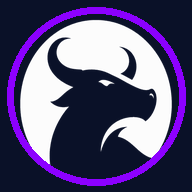
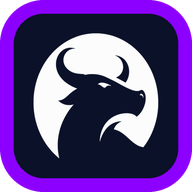
Íconos de FIG Directivos: marco al borde, como en el artefacto elegido
El generador dibujaba el marco del acento como un círculo alrededor del
toro; Francisco eligió (artefacto "Íconos de FIG Directivos") un cuadrado
redondeado con el marco pegado al borde y el toro al 66 %. La versión
maskable de Android va al 76 % para que el marco quepa en cualquier
recorte. ?v=2 en manifest y <link> para que los teléfonos los bajen de nuevo.

diff --git a/directivos/fiw/index.html b/directivos/fiw/index.html
@@ -8,8 +8,8 @@
 <title>FIG Directivos · FEN Investment Woman</title>
 <meta name="theme-color" content="#0A1128">
 <link rel="manifest" href="manifest.webmanifest">
-<link rel="icon" href="iconos/icono-192.png">
-<link rel="apple-touch-icon" href="iconos/apple-touch-icon.png">
+<link rel="icon" href="iconos/icono-192.png?v=2">
+<link rel="apple-touch-icon" href="iconos/apple-touch-icon.png?v=2">
 <meta name="mobile-web-app-capable" content="yes">
 <meta name="apple-mobile-web-app-capable" content="yes">
 <meta name="apple-mobile-web-app-title" content="FIG FIW">

diff --git a/directivos/administracion/index.html b/directivos/administracion/index.html
@@ -8,8 +8,8 @@
 <title>FIG Directivos · Administración</title>
 <meta name="theme-color" content="#2E2A4F">
 <link rel="manifest" href="manifest.webmanifest">
-<link rel="icon" href="iconos/icono-192.png">
-<link rel="apple-touch-icon" href="iconos/apple-touch-icon.png">
+<link rel="icon" href="iconos/icono-192.png?v=2">
+<link rel="apple-touch-icon" href="iconos/apple-touch-icon.png?v=2">
 <meta name="mobile-web-app-capable" content="yes">
 <meta name="apple-mobile-web-app-capable" content="yes">
 <meta name="apple-mobile-web-app-title" content="FIG ADM">

diff --git a/directivos/portafolio/index.html b/directivos/portafolio/index.html
@@ -8,8 +8,8 @@
 <title>FIG Directivos · Portafolio</title>
 <meta name="theme-color" content="#000000">
 <link rel="manifest" href="manifest.webmanifest">
-<link rel="icon" href="iconos/icono-192.png">
-<link rel="apple-touch-icon" href="iconos/apple-touch-icon.png">
+<link rel="icon" href="iconos/icono-192.png?v=2">
+<link rel="apple-touch-icon" href="iconos/apple-touch-icon.png?v=2">
 <meta name="mobile-web-app-capable" content="yes">
 <meta name="apple-mobile-web-app-capable" content="yes">
 <meta name="apple-mobile-web-app-title" content="FIG PRT">

diff --git a/directivos/valuation/index.html b/directivos/valuation/index.html
@@ -8,8 +8,8 @@
 <title>FIG Directivos · Valuation</title>
 <meta name="theme-color" content="#FF0000">
 <link rel="manifest" href="manifest.webmanifest">
-<link rel="icon" href="iconos/icono-192.png">
-<link rel="apple-touch-icon" href="iconos/apple-touch-icon.png">
+<link rel="icon" href="iconos/icono-192.png?v=2">
+<link rel="apple-touch-icon" href="iconos/apple-touch-icon.png?v=2">
 <meta name="mobile-web-app-capable" content="yes">
 <meta name="apple-mobile-web-app-capable" content="yes">
 <meta name="apple-mobile-web-app-title" content="FIG VAL">

diff --git a/directivos/trading/index.html b/directivos/trading/index.html
@@ -8,8 +8,8 @@
 <title>FIG Directivos · Trading</title>
 <meta name="theme-color" content="#B31919">
 <link rel="manifest" href="manifest.webmanifest">
-<link rel="icon" href="iconos/icono-192.png">
-<link rel="apple-touch-icon" href="iconos/apple-touch-icon.png">
+<link rel="icon" href="iconos/icono-192.png?v=2">
+<link rel="apple-touch-icon" href="iconos/apple-touch-icon.png?v=2">
 <meta name="mobile-web-app-capable" content="yes">
 <meta name="apple-mobile-web-app-capable" content="yes">
 <meta name="apple-mobile-web-app-title" content="FIG TRD">

diff --git a/generar_iconos_directivos.py b/generar_iconos_directivos.py
@@ -39,29 +39,45 @@ AREAS = {
 }
 
 
-def icono(area, fondo, acento, logo_img, lado, fraccion, nombre):
-    lienzo = Image.new("RGBA", (lado, lado), fondo)
-    d = round(lado * fraccion)
-    l = logo_img.resize((d, d), Image.LANCZOS)
-    lienzo.alpha_composite(l, ((lado - d) // 2, (lado - d) // 2))
-    ancho_anillo = max(2, round(lado * 0.035))
-    margen = ancho_anillo
-    ImageDraw.Draw(lienzo).ellipse(
-        [margen, margen, lado - margen, lado - margen], outline=acento, width=ancho_anillo
-    )
+# Mismo dibujo que el artefacto donde Francisco eligió los colores: cuadrado de
+# esquinas redondeadas (radio 22,6 %, el de iOS), marco del acento PEGADO AL
+# BORDE siguiendo esas esquinas (7 % de grosor) y el toro al 66 %. Hasta el
+# 25-sep el marco era un círculo alrededor del toro, que no era lo elegido.
+RADIO, GROSOR, TORO = 0.226, 0.071, 0.66
+X = 4   # se dibuja 4x más grande y se reduce: bordes del marco sin serrucho
+
+
+def icono(area, cfg, logo_img, lado, nombre, modo):
+    """modo "any": fuera del cuadrado redondeado queda transparente (así se ve en
+    Chrome/escritorio igual que en el artefacto). "apple": opaco, iOS recorta
+    solo con esas mismas esquinas. "mascara": Android recorta con la forma de
+    cada teléfono (círculo, gota…), así que el ícono entero se achica al 76 %
+    para que el marco completo quepa incluso en un recorte circular."""
+    G = lado * X
+    escala = 0.76 if modo == "mascara" else 1.0
+    t = round(G * escala)
+    o = (G - t) // 2
+    capa = Image.new("RGBA", (G, G), (0, 0, 0, 0) if modo == "any" else cfg["fondo"])
+    dib = ImageDraw.Draw(capa)
+    r, g = round(t * RADIO), round(t * GROSOR)
+    dib.rounded_rectangle([o, o, o + t - 1, o + t - 1], radius=r, fill=cfg["acento"])
+    dib.rounded_rectangle([o + g, o + g, o + t - 1 - g, o + t - 1 - g], radius=max(1, r - g), fill=cfg["fondo"])
+    d = round(t * TORO)
+    capa.alpha_composite(logo_img.resize((d, d), Image.LANCZOS), ((G - d) // 2, (G - d) // 2))
+    final = capa.resize((lado, lado), Image.LANCZOS)
     salida = RAIZ / "directivos" / area / "iconos"
     salida.mkdir(parents=True, exist_ok=True)
-    lienzo.convert("RGB").save(salida / nombre, optimize=True)
+    (final if modo == "any" else final.convert("RGB")).save(salida / nombre, optimize=True)
     print(f"  directivos/{area}/iconos/{nombre}  {lado}px")
 
 
 def generar(area):
     cfg = AREAS[area]
     l = logo(cfg["logo"])
-    icono(area, cfg["fondo"], cfg["acento"], l, 192, 0.80, "icono-192.png")
-    icono(area, cfg["fondo"], cfg["acento"], l, 512, 0.80, "icono-512.png")
-    icono(area, cfg["fondo"], cfg["acento"], l, 512, 0.62, "icono-mascara-512.png")
-    icono(area, cfg["fondo"], cfg["acento"], l, 180, 0.76, "apple-touch-icon.png")
+    icono(area, cfg, l, 192, "icono-192.png", "any")
+    icono(area, cfg, l, 512, "icono-512.png", "any")
+    icono(area, cfg, l, 512, "icono-mascara-512.png", "mascara")
+    icono(area, cfg, l, 180, "apple-touch-icon.png", "apple")
 
 
 if __name__ == "__main__":

diff --git a/generar_apps_directivos.py b/generar_apps_directivos.py
@@ -14,6 +14,8 @@ from pathlib import Path
 
 RAIZ = Path(__file__).resolve().parent
 DIR = RAIZ / "directivos"
+# Subirla cada vez que cambian los íconos: el ?v= obliga al teléfono a bajarlos de nuevo.
+VERSION_ICONOS = 2
 
 PLANTILLA = """<!doctype html>
 <html lang="es-CL">
@@ -25,8 +27,8 @@ PLANTILLA = """<!doctype html>
 <title>FIG Directivos · {nombre}</title>
 <meta name="theme-color" content="{fondo}">
 <link rel="manifest" href="manifest.webmanifest">
-<link rel="icon" href="iconos/icono-192.png">
-<link rel="apple-touch-icon" href="iconos/apple-touch-icon.png">
+<link rel="icon" href="iconos/icono-192.png?v={v}">
+<link rel="apple-touch-icon" href="iconos/apple-touch-icon.png?v={v}">
 <meta name="mobile-web-app-capable" content="yes">
 <meta name="apple-mobile-web-app-capable" content="yes">
 <meta name="apple-mobile-web-app-title" content="FIG {codigo}">
@@ -56,7 +58,7 @@ def main():
         area_js = json.dumps({"codigo": a["codigo"], "nombre": a["nombre"], "carpeta": carpeta}, ensure_ascii=False)
         (destino / "index.html").write_text(PLANTILLA.format(
             nombre=a["nombre"], codigo=a["codigo"], fondo=a["fondo"], acento=a["acento"],
-            area_js=area_js, areas_js=json.dumps(por_codigo, ensure_ascii=False)), encoding="utf-8")
+            v=VERSION_ICONOS, area_js=area_js, areas_js=json.dumps(por_codigo, ensure_ascii=False)), encoding="utf-8")
         manifest = {
             "id": "./", "name": f"FIG Directivos · {a['nombre']}", "short_name": f"FIG {a['codigo']}",
             "description": f"App interna de directivos de {a['nombre']}: publicar eventos, fotos y comunicados de FIG.",
@@ -64,9 +66,9 @@ def main():
             "orientation": "portrait", "background_color": "#F4F3EF", "theme_color": a["fondo"],
             "categories": ["business", "productivity"],
             "icons": [
-                {"src": "iconos/icono-192.png", "sizes": "192x192", "type": "image/png", "purpose": "any"},
-                {"src": "iconos/icono-512.png", "sizes": "512x512", "type": "image/png", "purpose": "any"},
-                {"src": "iconos/icono-mascara-512.png", "sizes": "512x512", "type": "image/png", "purpose": "maskable"},
+                {"src": f"iconos/icono-192.png?v={VERSION_ICONOS}", "sizes": "192x192", "type": "image/png", "purpose": "any"},
+                {"src": f"iconos/icono-512.png?v={VERSION_ICONOS}", "sizes": "512x512", "type": "image/png", "purpose": "any"},
+                {"src": f"iconos/icono-mascara-512.png?v={VERSION_ICONOS}", "sizes": "512x512", "type": "image/png", "purpose": "maskable"},
             ],
         }
         (destino / "manifest.webmanifest").write_text(json.dumps(manifest, ensure_ascii=False, indent=1) + "\n", encoding="utf-8")
